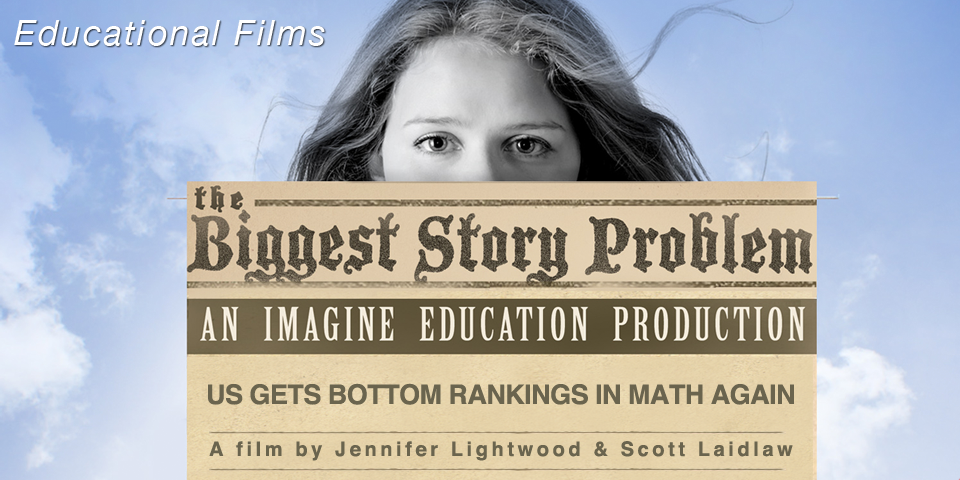
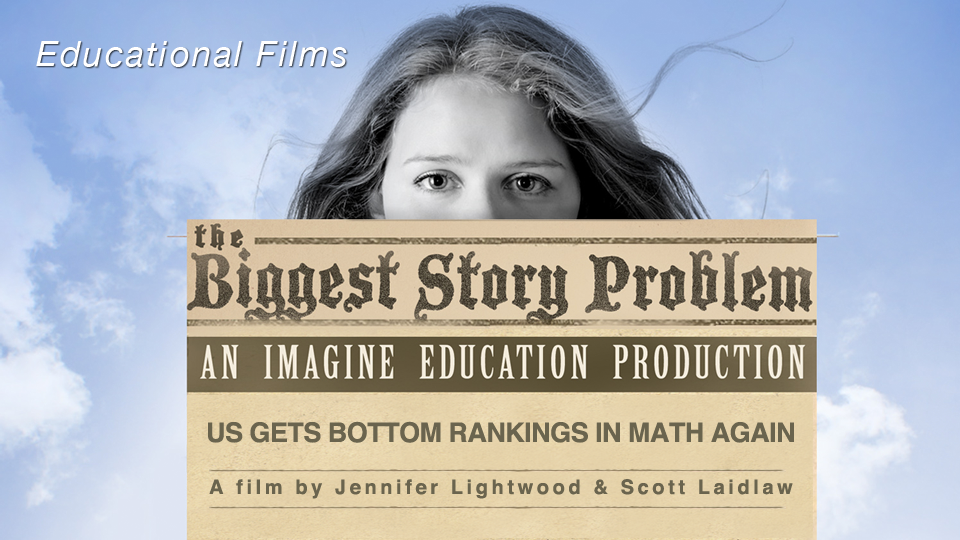
adding more page content and contact form

diff --git a/public/stylesheets/application/application.css b/public/stylesheets/application/application.css
@@ -2,7 +2,7 @@
 /*************************************************************************************************** GENERAL ************/
 #hd {position: relative;height: 180px;}
 #logo {position:absolute; left: 50%; margin-left:-188px;bottom: -33px; width: 375px; height: 150px; z-index: 2; text-indent: -9999em; background: transparent url(/images/common/top_bar/imagine_logo.png) 0px 0px no-repeat;}
-#bd {position: relative;height: 480px;padding: 35px 0px;}
+#bd {position: relative;height: 540px;padding: 35px 0px;}
 .bar {
 	position: absolute;
 	width: 960px;
@@ -41,7 +41,7 @@
 	border-radius: 0px 0px 10px 10px;
 }
 #bottom_bar.bar span#footer_logo {display:block;position: absolute; left: 50%; margin-left: -129px; width: 258px; height:35px; background: transparent url(/images/common/bottom_bar/story-footer-text.png) 0px 0px no-repeat;}
-.content_block {position: relative; width: 960px; height: 480px; overflow:hidden;}
+.content_block {position: relative; width: 960px; height: 540px; overflow:hidden;}
 .footer_nav {position: relative; float:left; height: 35px;padding: 0px; margin: 0px;}
 #nav_left.footer_nav {width: 300px;}
 #nav_right.footer_nav {width: 240px; float:right;}
@@ -49,5 +49,18 @@
 .footer_nav li a {position: relative; float:left; text-decoration: none; display: block; color: #444; font-weight: 700; text-shadow: 0px 1px 0px #fff; width: 100%; text-align:center;}
 .footer_nav li a:hover {color:#0066b3;}
 #copyright {position: relative; margin: 0px auto; font-size:11px; color:#aaa; display: block; margin-top: 10px;}
-/************************************************************************************************************************/
-/*************************************************************************************************** INDEX **************/
+
+#about {background: url(/images/panels/about_bg_panel.png) 0px 0px no-repeat}
+#about .about_header {position: absolute; left: 50%; margin-left: -260px; width: 520px; height: 30px; padding: 30px 0px;}
+#contact header, #about .about_header {padding: 20px 0px; font-size: 34px; color:#fff; text-shadow: 0px 1px 0px #000; }
+#contact_form {position: relative; float:left; margin: 40px; width: 880px;}
+#contact {position: relative; float:left; background: url(/images/panels/general_blue_bg.png) 0px 0px no-repeat;}
+#contact form {position: relative; float:left; width: 880px; height: 300px;}
+#contact header {padding-left: 60px; width: 820px; font-weight: 700;}
+.field, label, input, textarea {position: relative; width: 300px;}
+textarea {width: 290px;}
+label, input, textarea {color:#444;}
+#contact textarea {height: 156px;}
+#contact label {color:#fff; text-shadow: 0px 1px 0px #000; }
+.form_section {position: relative; float:left; width: 380px; padding: 0px 0px 0px 60px;}
+#contact footer {position: relative; float:left; width: 880px; text-align: center; color:#fff; text-shadow: 0px 1px 0px #000; font-size: 24px;}

diff --git a/public/stylesheets/core.css b/public/stylesheets/core.css
@@ -1386,5 +1386,6 @@ height: 28px;
 }
 /******************************************************************************************************************************/
 /******************************************************************************************* FADE PANELS **********************/
-ul#fade_panel_wrap {position: relative; width: 960px; margin: 0px; padding: 0px;}
+ul {margin: 0px; padding: 0px;}
+ul#fade_panel_wrap {position: relative; width: 960px;}
 ul#fade_panel_wrap li.fade_panel {position: absolute; top: 0px; left: 0px; width: 960px; height: 480px; display:none;}

diff --git a/config/initializers/smtp_gmail.rb b/config/initializers/smtp_gmail.rb
@@ -1,0 +1,10 @@
+config_options = YAML.load_file("#{Rails.root}/config/smtp_gmail.yml") 
+ActionMailer::Base.smtp_settings = {
+  :domain => "*.imagineeducation.org",
+  :address => "smtp.gmail.com",
+  :port => 587,
+  :authentication => :plain,
+  :enable_starttls_auto => true
+}.merge(config_options) # Configuration options override default options
+
+ActionMailer::Base.default_url_options[:host] = "www.imagineeducation.org"

diff --git a/config/routes.rb b/config/routes.rb
@@ -5,6 +5,7 @@ Iedu::Application.routes.draw do
 	match "projects" => "imagine#projects", :as => :projects
 	match "about-imagine-education" => "imagine#about", :as => :about
 	match "contact-imagine-education" => "imagine#contact", :as => :contact
+	match "contact-form" => "imagine#contact_submit", :as => :contact_form_path
 
   root :to => "imagine#index"
 

diff --git a/test/functional/app_mailer_test.rb b/test/functional/app_mailer_test.rb
@@ -1,0 +1,12 @@
+require 'test_helper'
+
+class AppMailerTest < ActionMailer::TestCase
+  test "contact_mailer" do
+    mail = AppMailer.contact_mailer
+    assert_equal "Contact mailer", mail.subject
+    assert_equal ["to@example.org"], mail.to
+    assert_equal ["from@example.com"], mail.from
+    assert_match "Hi", mail.body.encoded
+  end
+
+end

diff --git a/app/mailers/app_mailer.rb b/app/mailers/app_mailer.rb
@@ -1,0 +1,8 @@
+class AppMailer < ActionMailer::Base
+  default :from => "support@kosjourney.com"
+
+  def contact_mailer(params)
+    @params = params
+    mail(:to => "support@cube2media.com", :subject => "Imagine Education Inquiry")
+  end
+end

diff --git a/app/controllers/imagine_controller.rb b/app/controllers/imagine_controller.rb
@@ -19,4 +19,9 @@ class ImagineController < ApplicationController
   	
   end
 
+  def contact_submit
+    AppMailer.contact_mailer(params).deliver
+    redirect_to(:back, :notice => "Your inquiry has been sent. Thank you.")
+  end
+
 end
